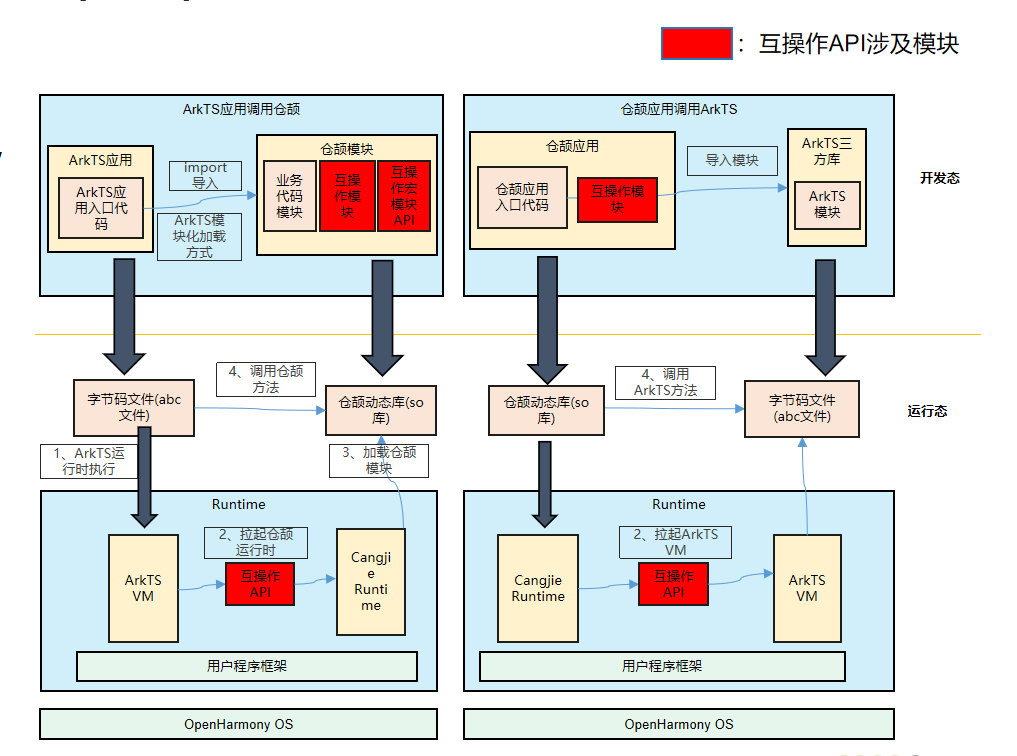
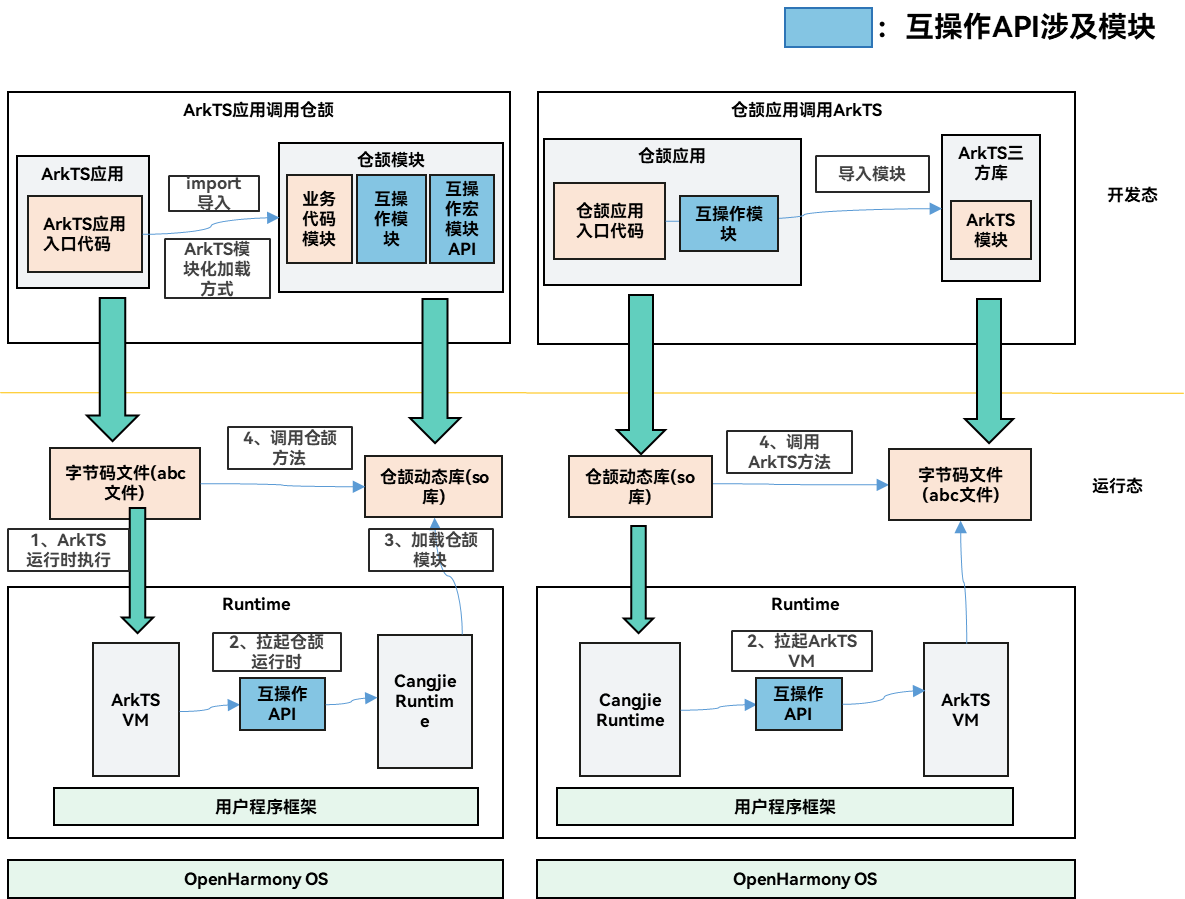
fixed doc

diff --git a/README_zh.md b/README_zh.md
@@ -21,6 +21,34 @@
 └── LICENSE
 ```
 
+## 约束
+
+- 当前开放的安全基础能力仓颉接口仅支持standard设备。
+
+## 构建指导
+
+1. 初始化
+
+    ```text
+    repo init -u https://gitcode.com/openharmony-sig/manifest.git -b master -m cangjie_oh.xml --no-repo-verify
+    ```
+
+2. 预下载
+
+    ```text
+    bash build/prebuilts_download.sh
+    ```
+
+3. 构建
+
+    ```text
+    // rom构建
+    ./build.sh --product-name rk3568 -ccache --target-cpu=arm64
+
+    //oh-sdk构建：
+    ./build.sh --product-name ohos-sdk --ccache --build-target out/sdk/gen/build/ohos/sdk:cangjie
+    ```
+
 ## 使用场景
 
 包含仓颉- ArkTS 互操作库，用于仓颉- ArkTS 互操作。json 库/ APILevel / cffi 库为基础功能库，提供给仓颉 api /仓颉 ui 等子系统等公共能力.
@@ -38,6 +66,14 @@
 - JSCallInfo: 用于表示当发生来自于 ArkTS 互操作调用时 调用的参数集合；
 
 同时针对互操作带来的开发复杂度，仓颉提供声明式互操作宏 ark_interop_macro，使开发者可以使用宏“@Interop[ArkTS]”标注仓颉代码中需要导出给 ArkTS 使用的函数或类型，在编译阶段自动生成互操作“胶水层”代码及 ArkTS 接口声明，减少开发者手写互操作代码的复杂度。
+
+互操作开发指南请参见[互操作开发指南](https://gitcode.com/openharmony-sig/arkcompiler_cangjie_ark_interop/blob/master/doc/User_Manual/source_zh_cn/FFI/cangjie-arkts/cangjie_arkts_overview.md)。
+
+互操作 API 指导请参见[互操作 API 指导](https://gitcode.com/openharmony-sig/arkcompiler_cangjie_ark_interop/blob/master/doc/API_Reference/source_zh_cn/arkinterop/cj-apis-ark_interop.md)
+
+## 参与贡献
+
+欢迎广大开发者贡献代码、文档等，具体的贡献流程和方式请参见[参与贡献](https://gitcode.com/openharmony/docs/blob/master/zh-cn/contribute/%E5%8F%82%E4%B8%8E%E8%B4%A1%E7%8C%AE.md)。
 
 ## 相关仓
 

diff --git a/README.md b/README.md
@@ -19,6 +19,33 @@ Framework architecture:
 └── LICENSE
 ```
 
+## Constraints
+
+- The security cangjie interface currently under development only supports standard devices.
+
+## Build Guide
+
+1. Initialize
+
+    ```text
+    repo init -u https://gitcode.com/openharmony-sig/manifest.git -b master -m cangjie_oh.xml --no-repo-verify
+    ```
+
+2. Pre-download
+
+    ```text
+    bash build/prebuilts_download.sh
+    ```
+
+3. Build
+
+    ```text
+    // build rom
+    ./build.sh --product-name rk3568 -ccache --target-cpu=arm64
+
+    // build oh-sdk：
+    ./build.sh --product-name ohos-sdk --ccache --build-target out/sdk/gen/build/ohos/sdk:cangjie
+
 ## Usage Scenarios
 
 It contains the Cangjie-ArkTS interoperation library, which is used for Cangjie-ArkTS interoperation. The json library/APILevel/cffi library are basic function libraries, providing public capabilities for subsystems such as Cangjie API/Cangjie UI.
@@ -39,6 +66,10 @@ For interop scenarios, Cangjie provides ark_interop libraries to achieve interop
 - JSCallInfo: Used to represent a set of parameters that are called when an ArkTS interop call occurs;
 
 At the same time, in response to the development complexity brought about by interop, Cangjie provides a declarative interoperability macro ark_interop_macro, which allows developers to use the macro "@Interop[ArkTS]" to mark the functions or types that need to be exported to ArkTS in the Cangjie code, and automatically generate the interoperability "glue layer" code and ArkTS interface declarations during the compilation stage, reducing the complexity of the developer's handwritten interoperability code.
+
+## Code Contribution
+
+Developers are welcome to contribute code, documentation, etc. For specific contribution processes and methods, please refer to [Code Contribution](https://gitcode.com/openharmony/docs/blob/master/en/contribute/code-contribution.md).
 
 ## Related Repositories
 
